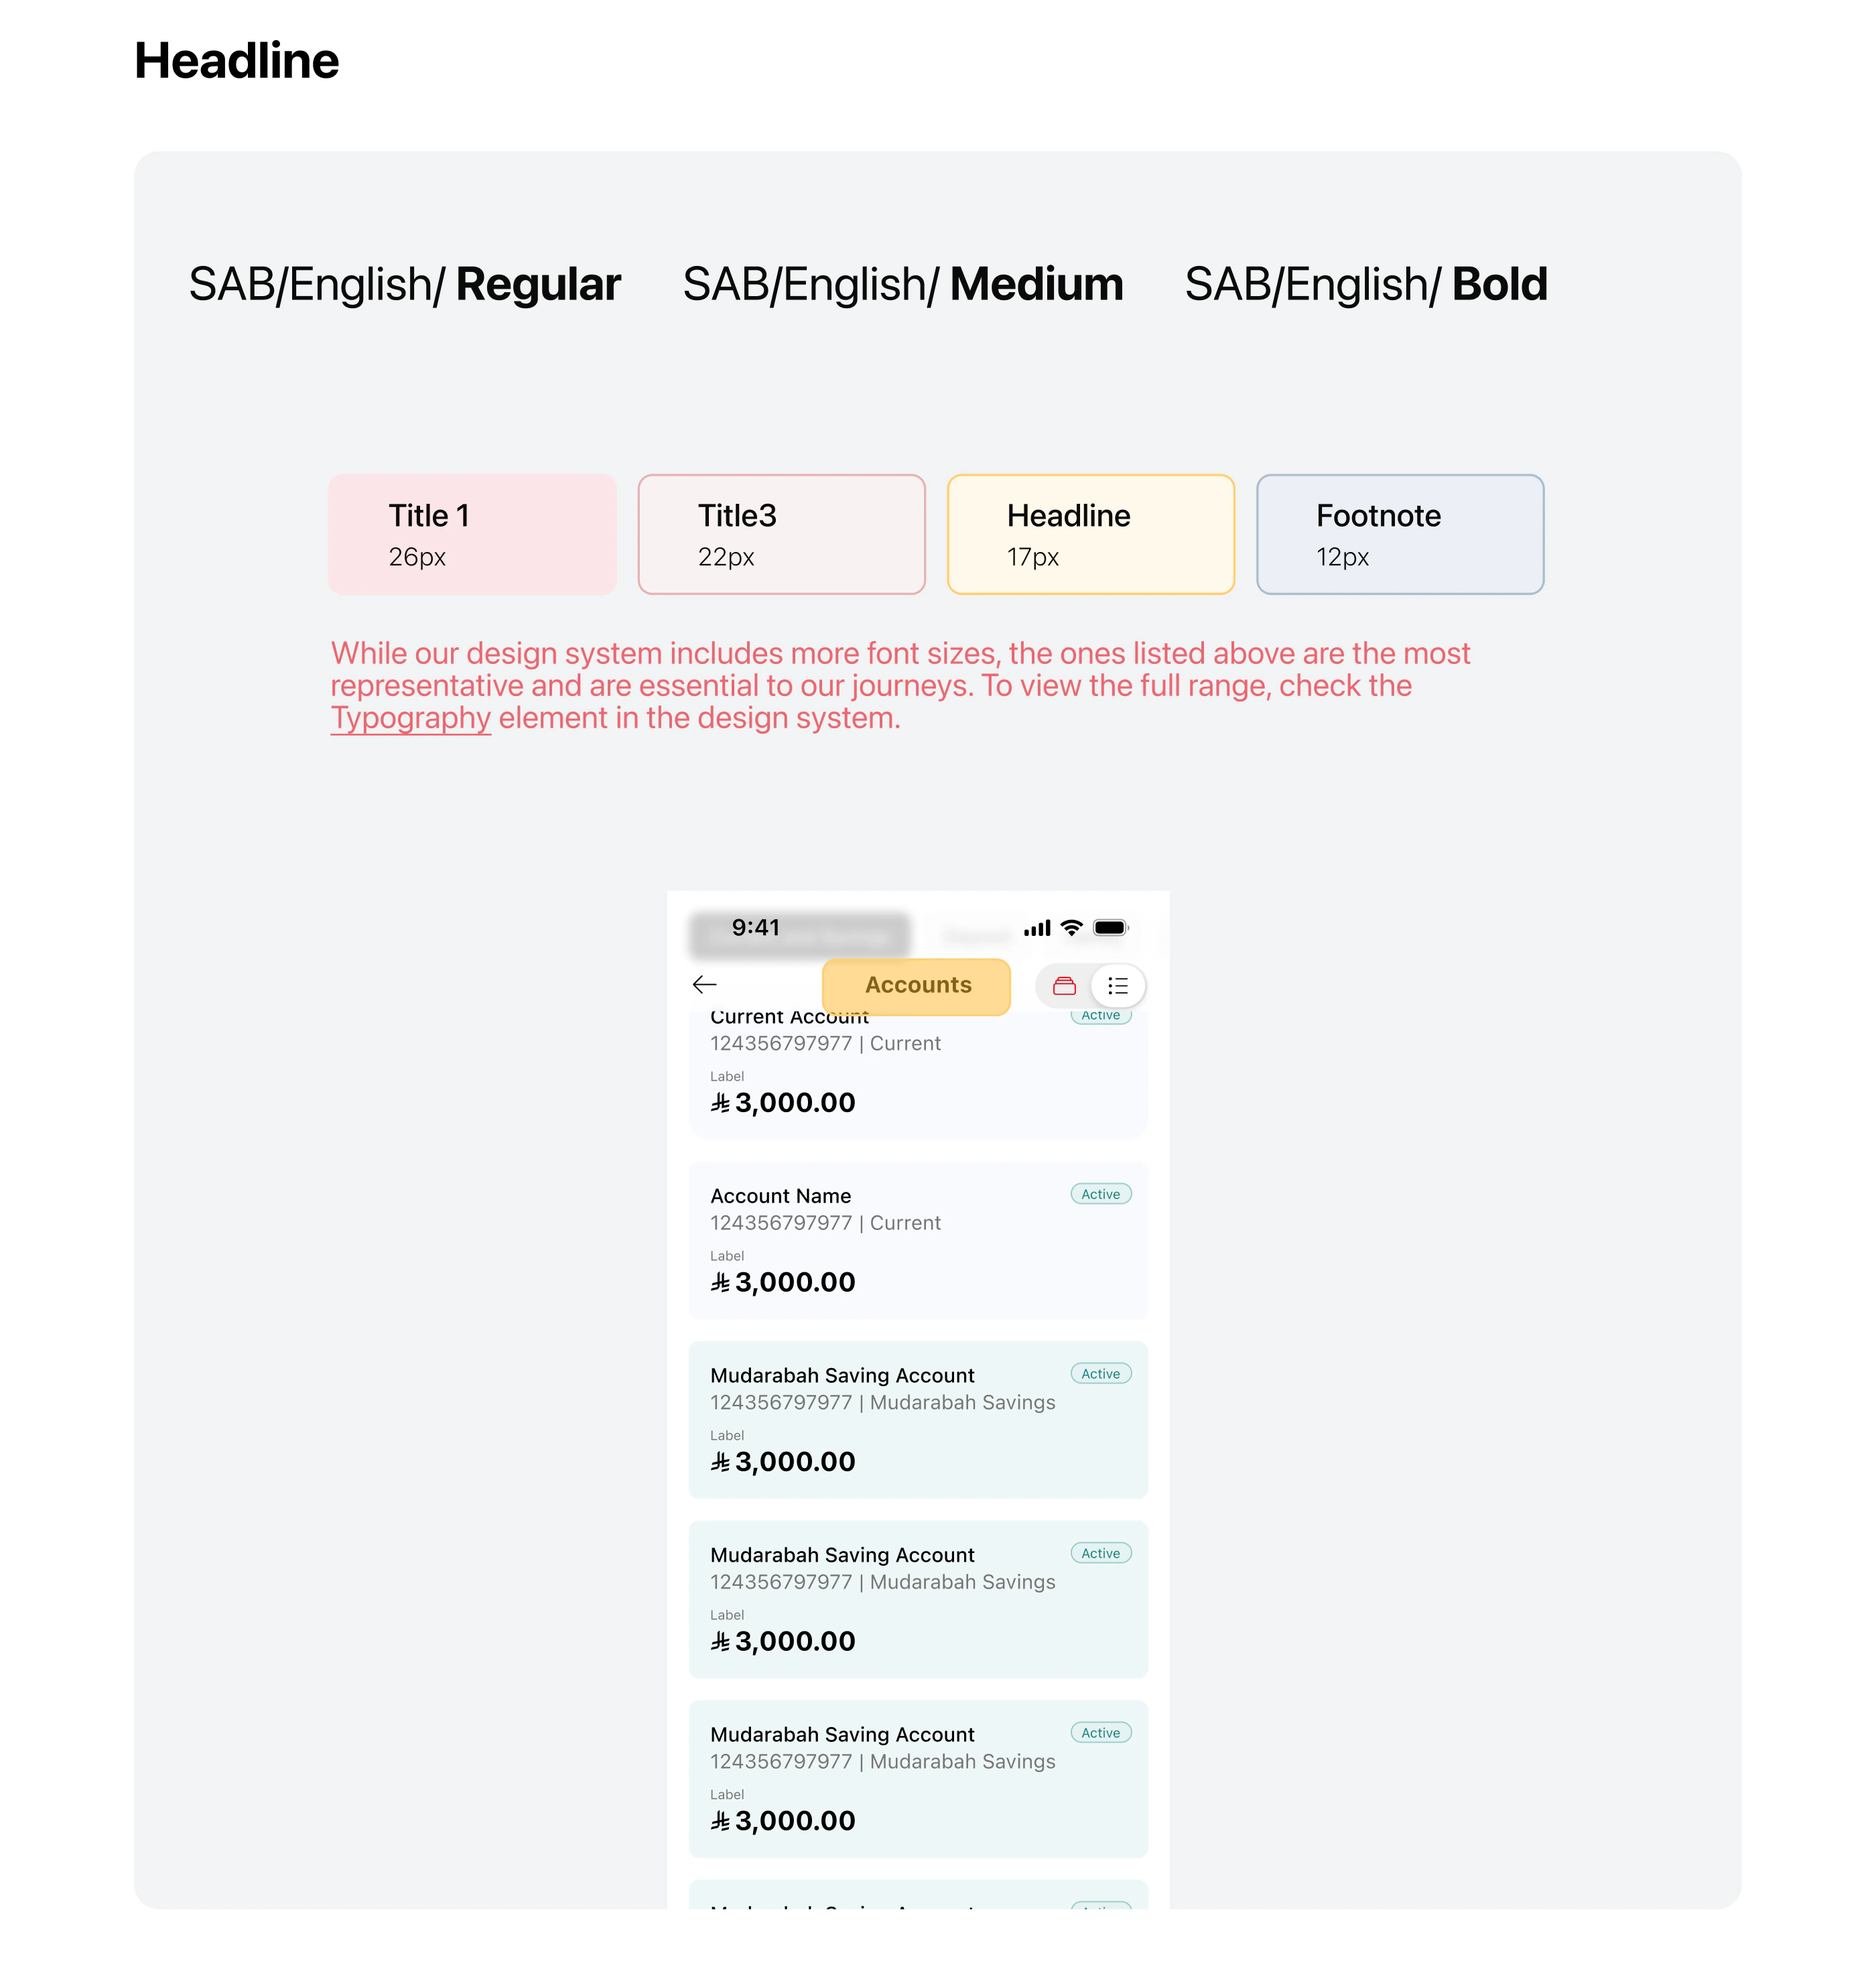
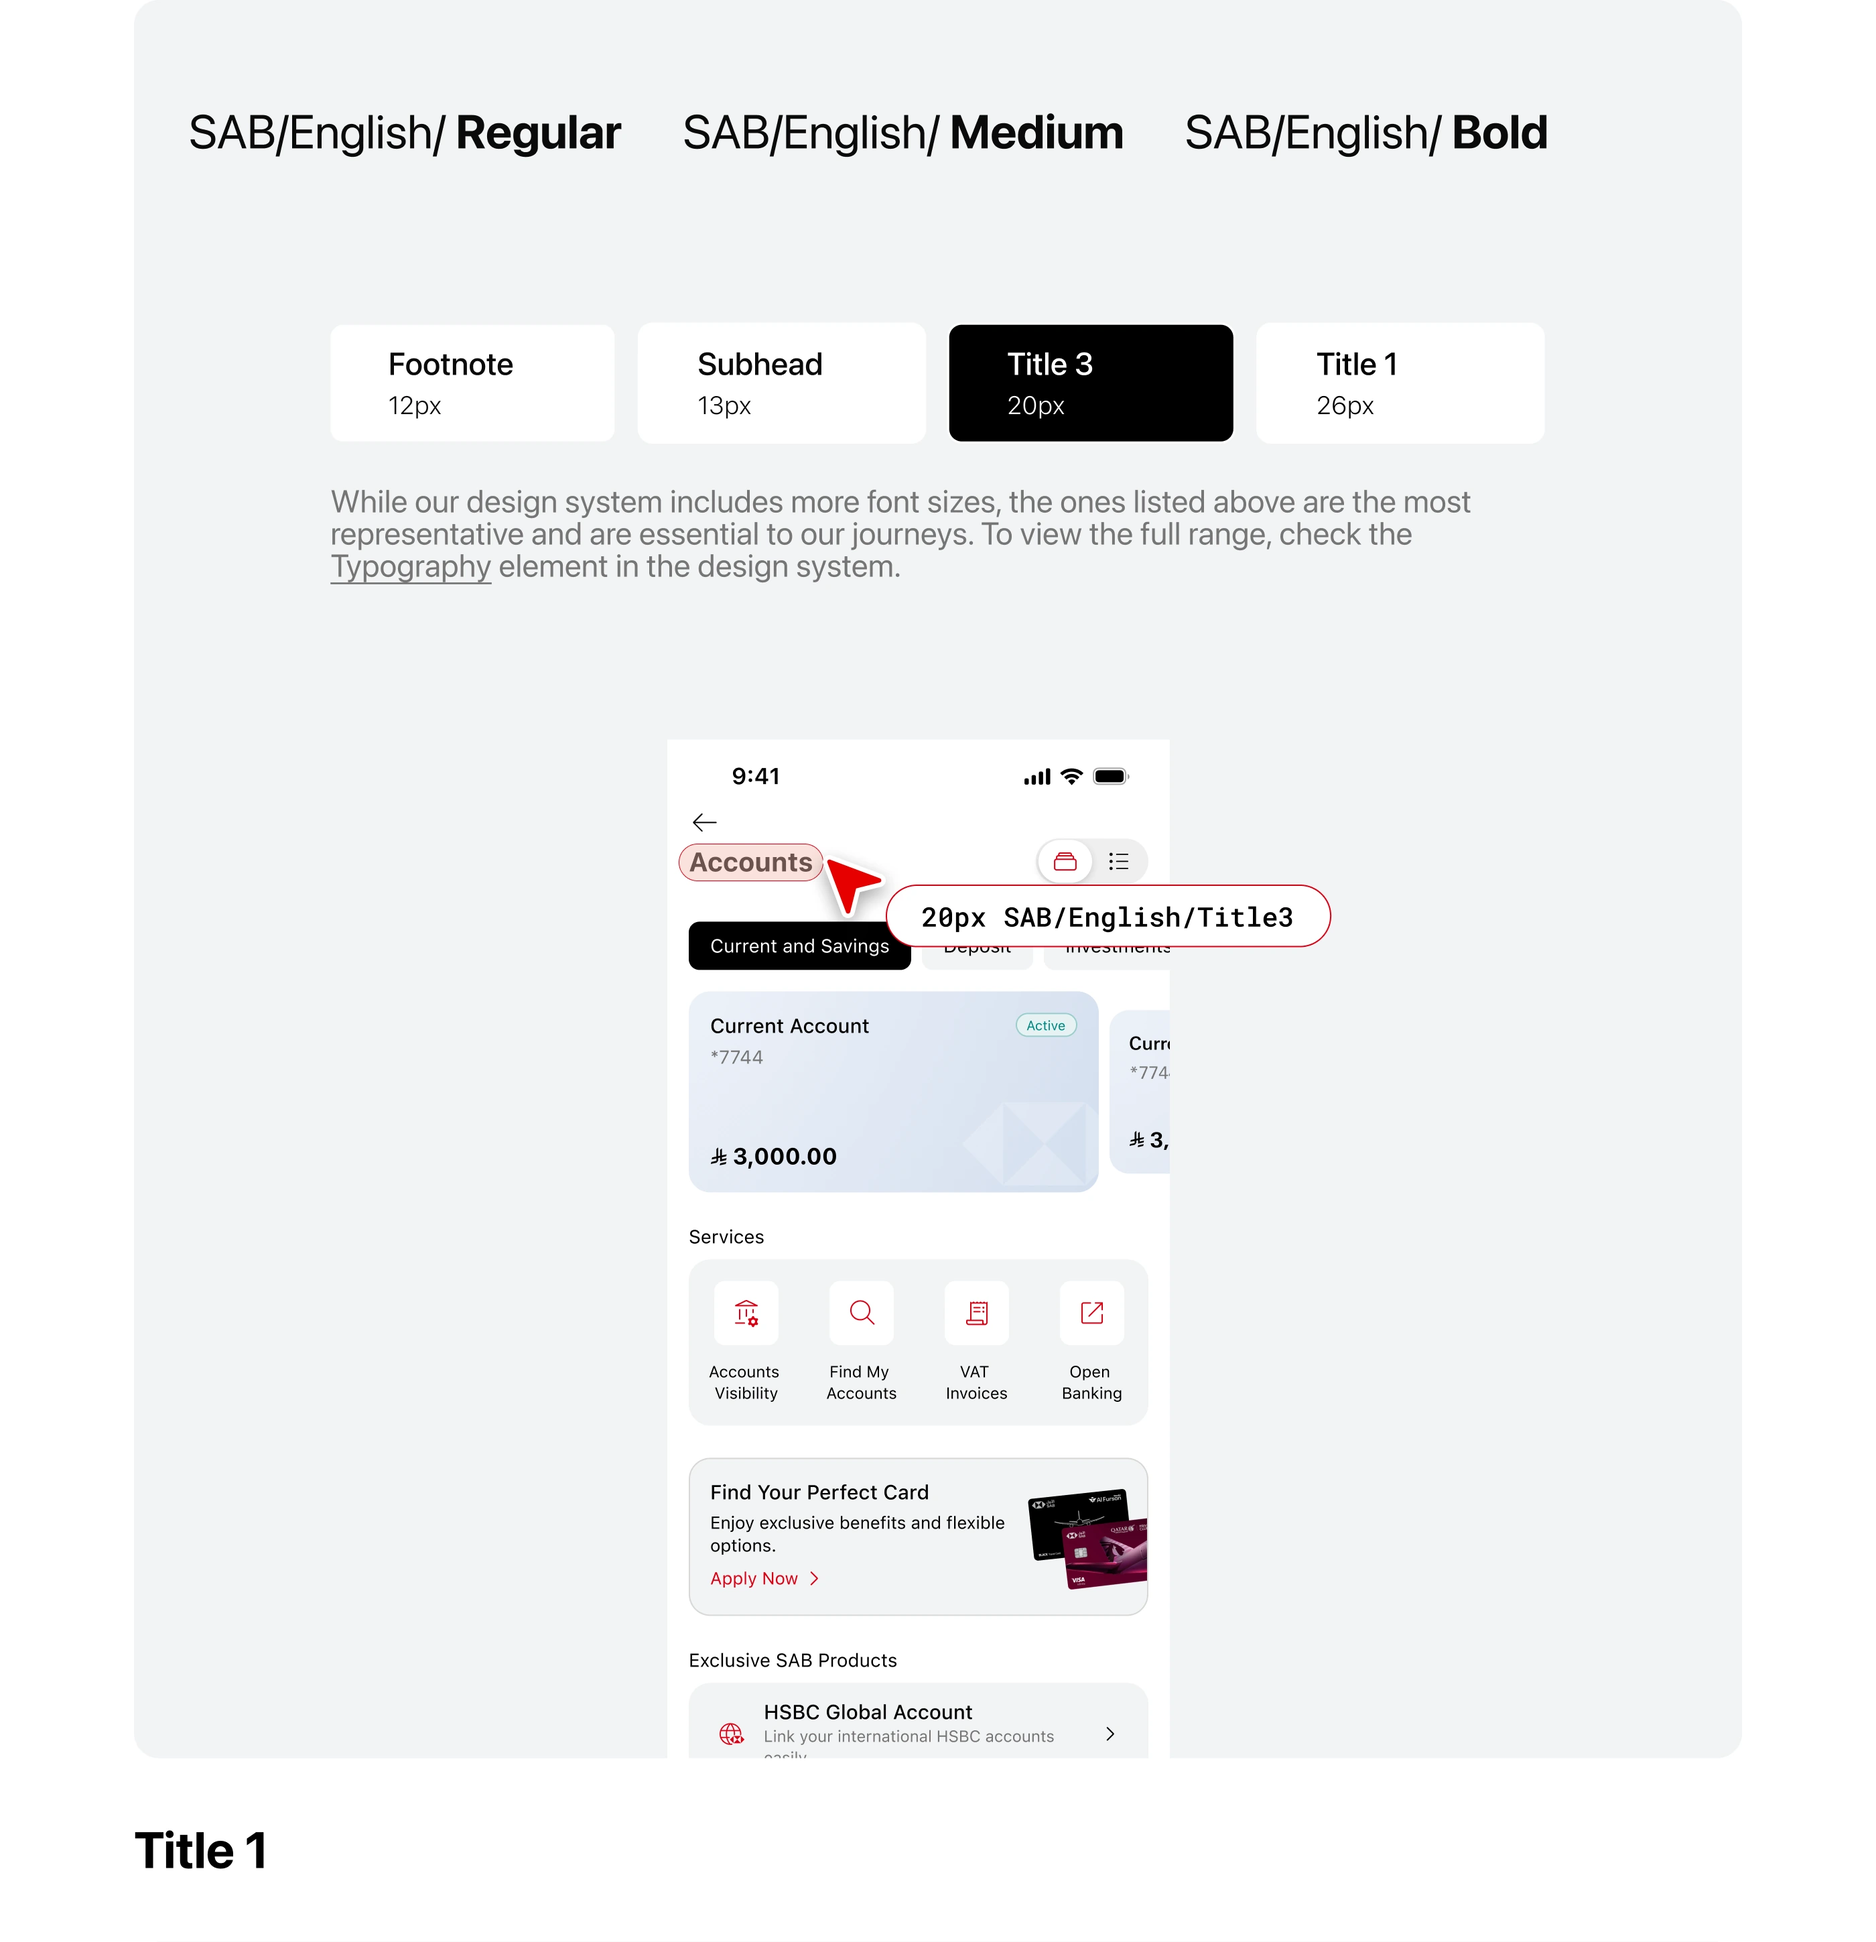
fix:updated latest docs for guidelines

diff --git a/stories/pulse-design-system/guidelines/catalog.ts b/stories/pulse-design-system/guidelines/catalog.ts
@@ -28,28 +28,28 @@ export const GUIDELINES_PAGES: DocPage[] = [
     title: "Spacing",
     storyTitle: "Pulse Design System/Guidelines/Spacing",
     images: [
-      img(require("./assets/spacing-01-rules.webp"), 2800, 3675),
-      img(require("./assets/spacing-02-xs.webp"), 2800, 3026),
-      img(require("./assets/spacing-03-s.webp"), 2800, 2952),
-      img(require("./assets/spacing-04-m.webp"), 2800, 2952),
-      img(require("./assets/spacing-05-l.webp"), 2800, 2952),
-      img(require("./assets/spacing-06-general.webp"), 2800, 3026),
+      img(require("./assets/spacing-01-rules.webp"), 2800, 3592),
+      img(require("./assets/spacing-02-xs.webp"), 2800, 2946),
+      img(require("./assets/spacing-03-s.webp"), 2800, 2871),
+      img(require("./assets/spacing-04-m.webp"), 2800, 2871),
+      img(require("./assets/spacing-05-l.webp"), 2800, 2871),
+      img(require("./assets/spacing-06-general.webp"), 2800, 3227),
     ],
   },
   {
     title: "Colours",
     storyTitle: "Pulse Design System/Guidelines/Colours",
-    images: [img(require("./assets/colours.webp"), 1400, 8015)],
+    images: [img(require("./assets/colours.webp"), 2800, 15974)],
   },
   {
     title: "Font Size",
     storyTitle: "Pulse Design System/Guidelines/Font Size",
     images: [
-      img(require("./assets/font-size-01-rules.webp"), 2800, 3629),
-      img(require("./assets/font-size-02-title3.webp"), 2800, 2930),
-      img(require("./assets/font-size-03-headline.webp"), 2800, 2930),
-      img(require("./assets/font-size-04-body.webp"), 2800, 2930),
-      img(require("./assets/font-size-05-general.webp"), 2800, 2798),
+      img(require("./assets/font-size-01-rules.webp"), 2800, 3996),
+      img(require("./assets/font-size-02-title3.webp"), 2800, 2898),
+      img(require("./assets/font-size-03-headline.webp"), 2800, 2898),
+      img(require("./assets/font-size-04-body.webp"), 2800, 2770),
+      img(require("./assets/font-size-05-general.webp"), 2800, 2998),
     ],
   },
   {
@@ -60,17 +60,17 @@ export const GUIDELINES_PAGES: DocPage[] = [
   {
     title: "Padding",
     storyTitle: "Pulse Design System/Guidelines/Padding",
-    images: [img(require("./assets/padding.webp"), 1400, 6026)],
+    images: [img(require("./assets/padding.webp"), 2800, 11263)],
   },
   {
     title: "Border Radius",
     storyTitle: "Pulse Design System/Guidelines/Border Radius",
-    images: [img(require("./assets/border-radius.webp"), 1400, 3616)],
+    images: [img(require("./assets/border-radius.webp"), 2800, 9860)],
   },
   {
     title: "Icon Sizes",
     storyTitle: "Pulse Design System/Guidelines/Icon Sizes",
-    images: [img(require("./assets/icon-sizes.webp"), 1400, 6144)],
+    images: [img(require("./assets/icon-sizes.webp"), 2800, 12131)],
   },
   {
     title: "Layout",
